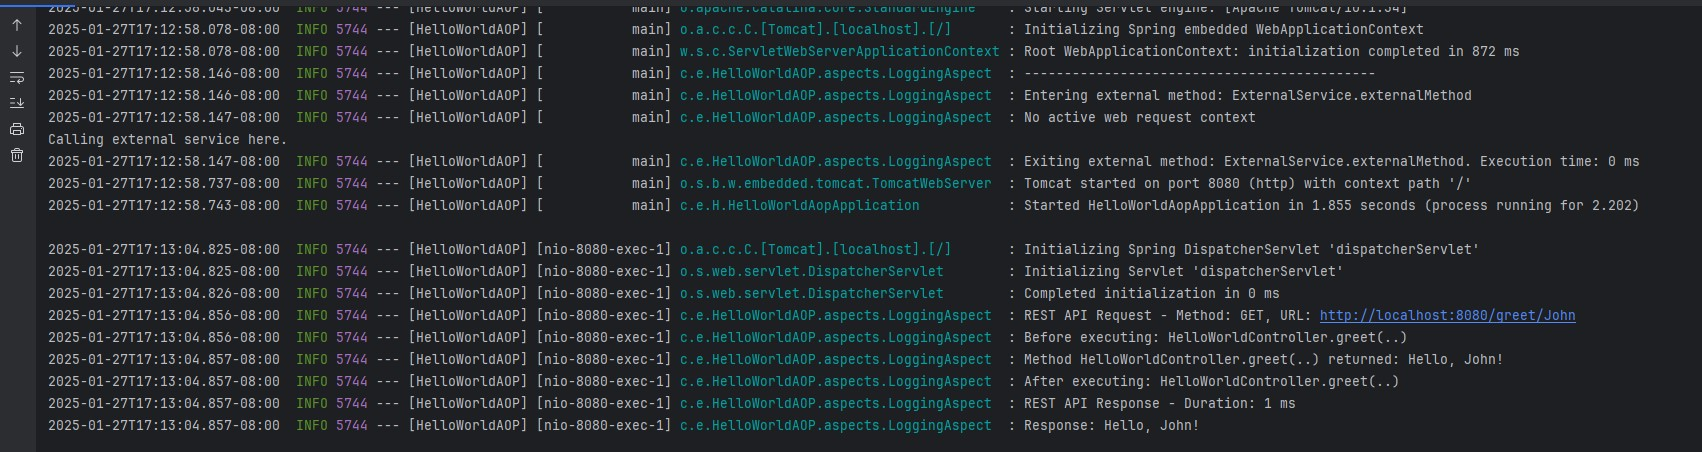
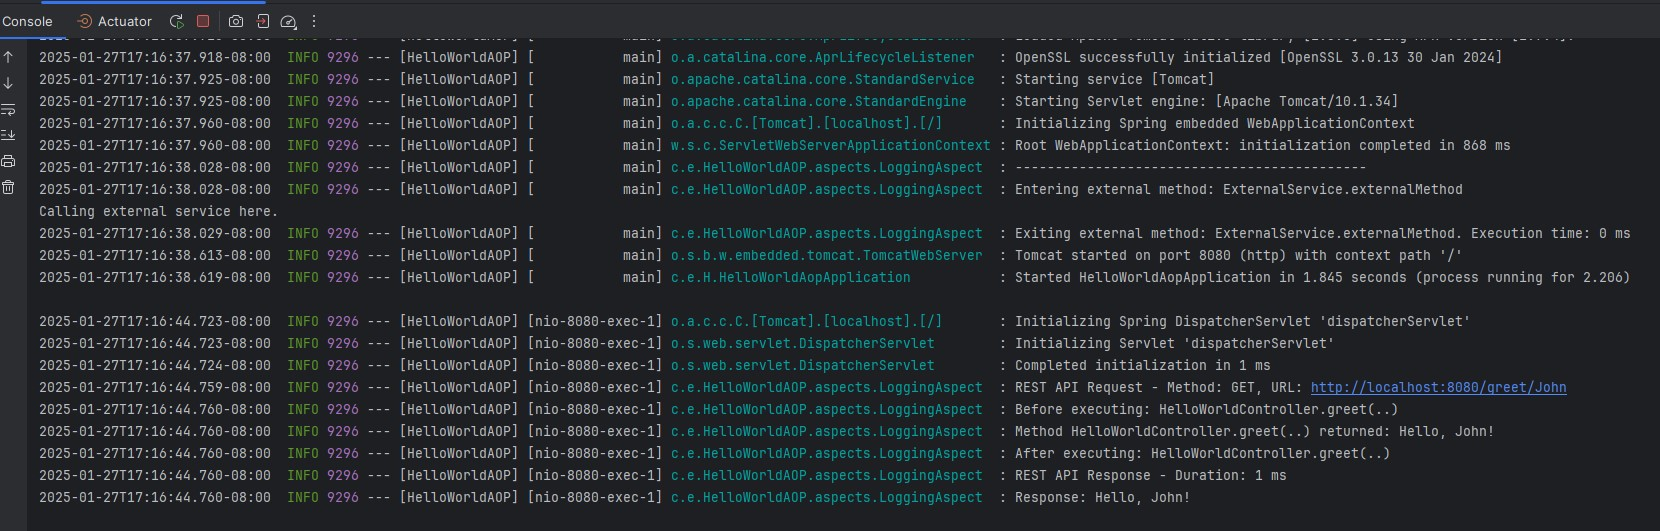
update result and LoggingAspect

Changed region(s): [[0.0, 0.0, 0.9831, 0.9602]]

diff --git a/Coding/hw14/HelloWorldAOP/HelloWorldAOP/src/main/java/com/example/HelloWorldAOP/aspects/LoggingAspect.java b/Coding/hw14/HelloWorldAOP/HelloWorldAOP/src/main/java/com/example/HelloWorldAOP/aspects/LoggingAspect.java
@@ -45,13 +45,14 @@ public class LoggingAspect {
         String className = joinPoint.getTarget().getClass().getSimpleName();
         logger.info("--------------------------------------------");
         logger.info("Entering external method: {}.{}", className, methodName);
-
+/*
         try {
             HttpServletRequest request = ((ServletRequestAttributes) RequestContextHolder.currentRequestAttributes()).getRequest();
             logger.info("REST API Request - Method: {}, URL: {}", request.getMethod(), request.getRequestURL());
         } catch (IllegalStateException e) {
             logger.info("No active web request context");
         }
+*/
 
         long startTime = System.currentTimeMillis();
         Object result = joinPoint.proceed();
